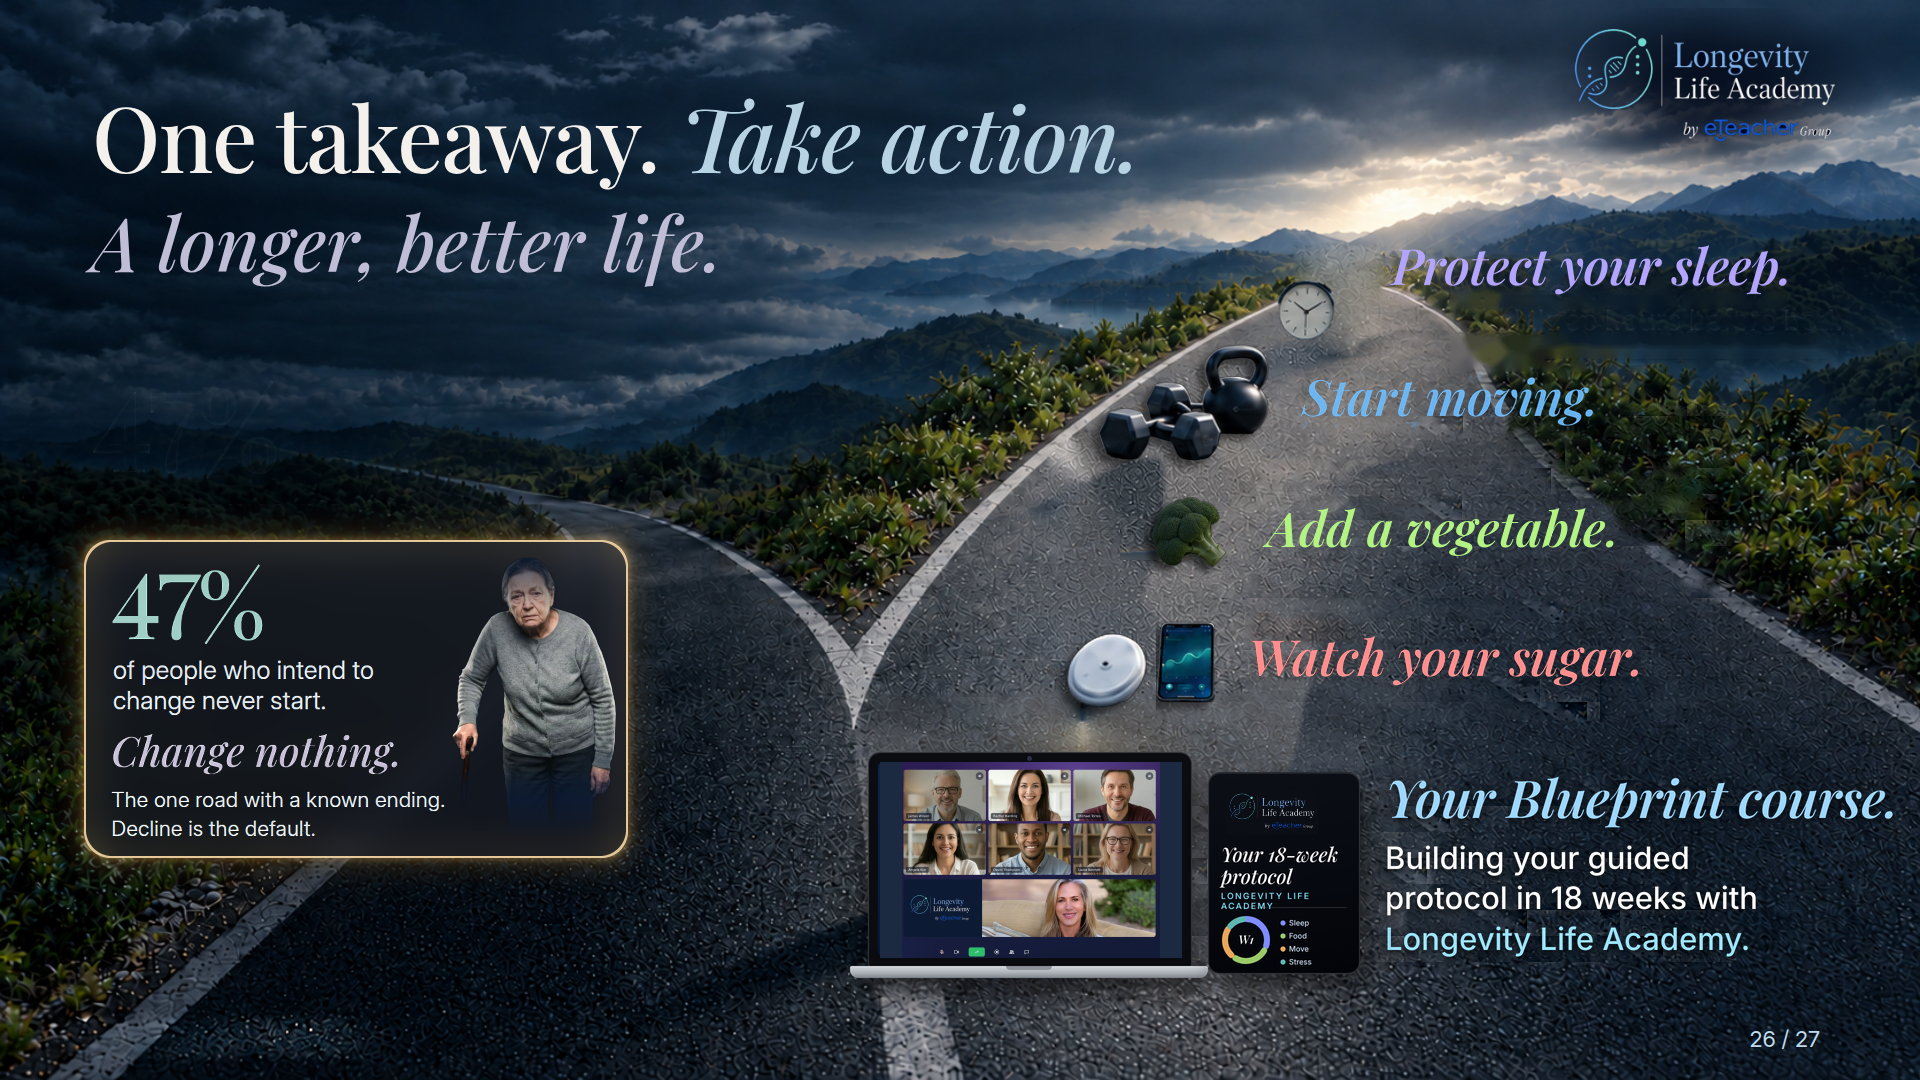
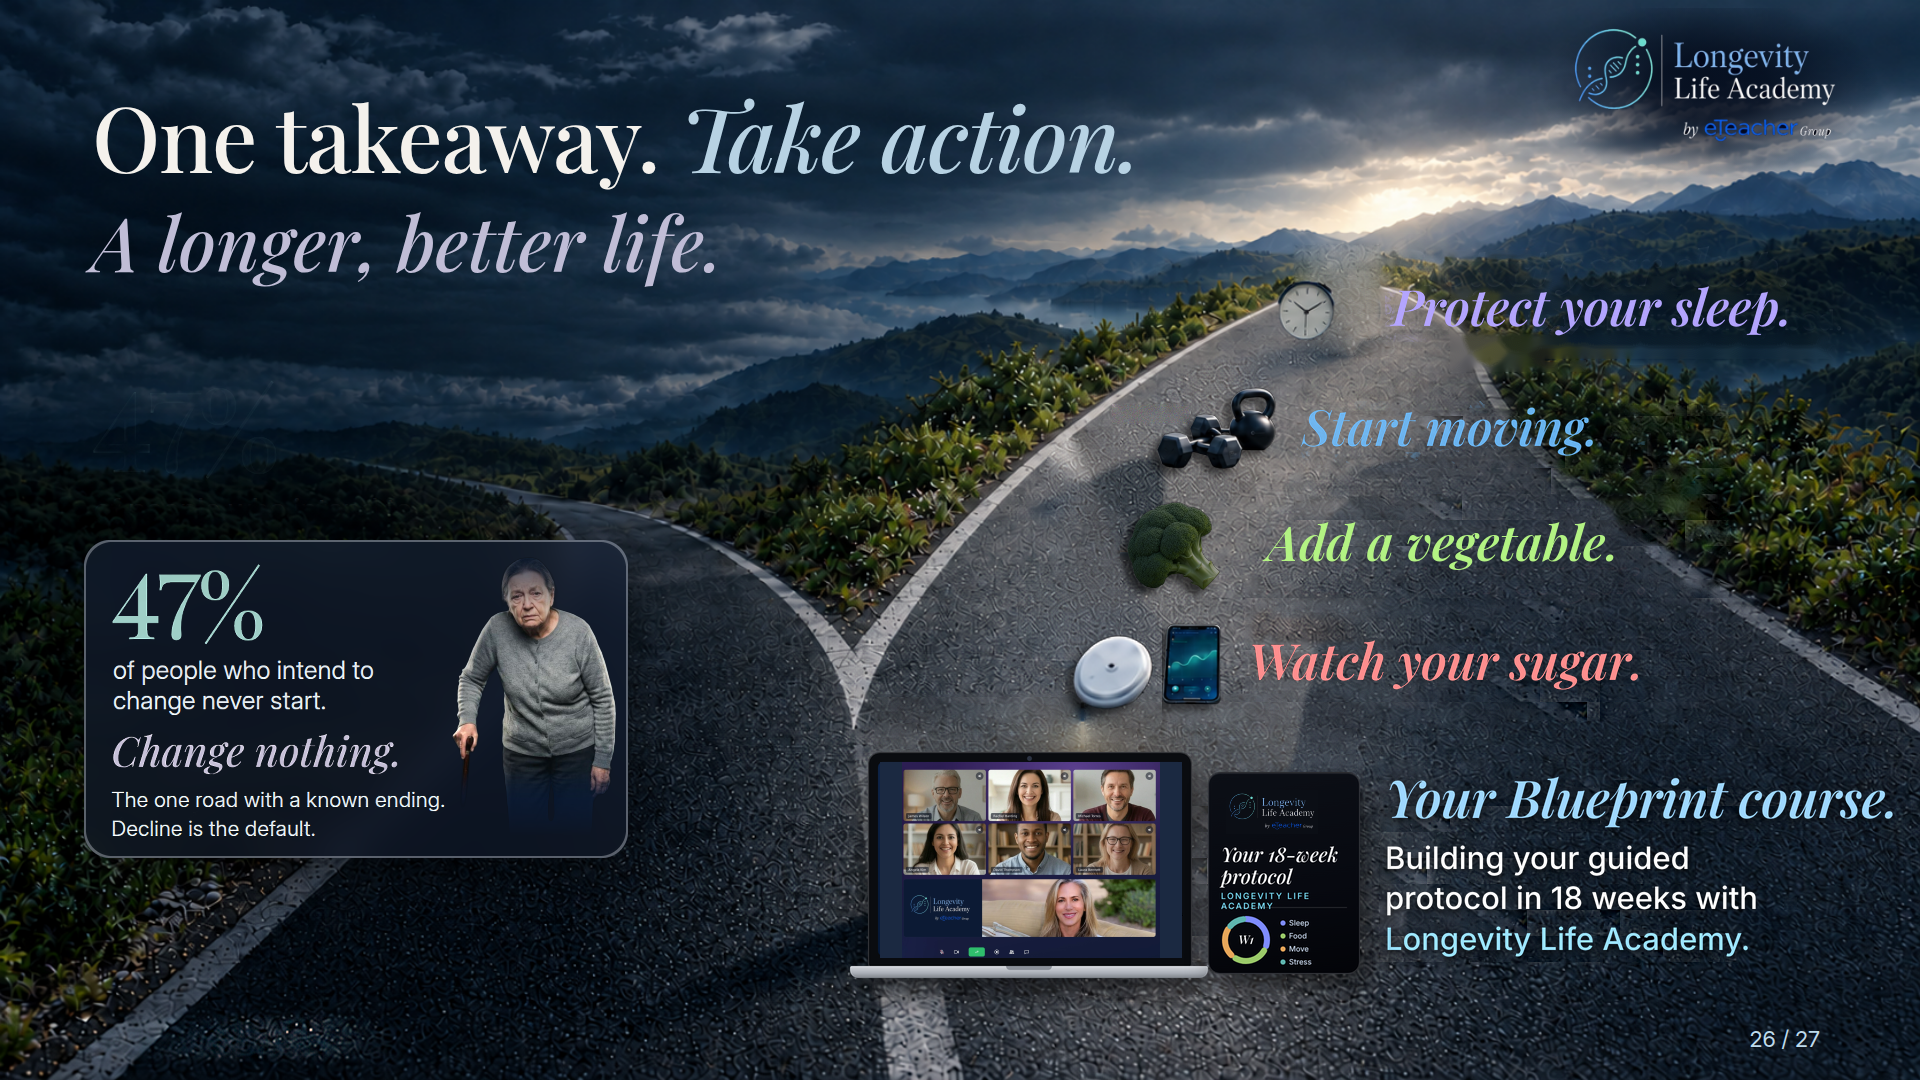
fork-lab: neutral glass card, headlines centred on objects, sharp original clock, broccoli up, weights down

diff --git a/slide-canvas/fork-lab/index.html b/slide-canvas/fork-lab/index.html
@@ -1,4 +1,4 @@
 <!doctype html><html><head><meta charset="utf-8"><title>Fork lab – slide 26</title>
 <style>body{margin:0;background:#0b1220;color:#dfe7f3;font:15px/1.4 Inter,system-ui,sans-serif}h2{font-weight:500;margin:28px 24px 10px}img{display:block;width:calc(100% - 48px);max-width:1920px;margin:0 24px 24px;border-radius:6px}</style></head>
 <body><h2>Original</h2><img src="original-n25-fork.png?v=1" alt="Original">
-<h2>New</h2><img src="new-n25-fork.png?v=10" alt="New"></body></html>
+<h2>New</h2><img src="new-n25-fork.png?v=11" alt="New"></body></html>

diff --git a/slide-canvas/fork-lab/src/b2.py b/slide-canvas/fork-lab/src/b2.py
@@ -52,8 +52,10 @@ def matte(x0,y0,x1,y1,mask):
     return col,al
 HD=[(1385,244,1800,302,248-249,0),(1300,365,1700,428,378-372,1304-1307),(1250,548,1700,608,638-556,1250-1257)]
 HC=[np.array([255,165,180],np.float32),np.array([255,190,110],np.float32),None]
-for (x0,y0,x1,y1,dy,dx),hc in zip(HD,HC):
+ROWC=[310,428,664]
+for (x0,y0,x1,y1,dy,dx),hc,rc in zip(HD,HC,ROWC):
     col,al=matte(x0,y0,x1,y1,tm);A=al[...,None]
+    ys=np.where((al>0.3).any(1))[0];dy=int(round(rc-(y0+(ys.min()+ys.max())/2)));print('head',rc,dy)
     if hc is not None: col=col*0+hc
     R[y0+dy:y1+dy,x0+dx:x1+dx]=R[y0+dy:y1+dy,x0+dx:x1+dx]*(1-A)+col*A
 def put(R,rgba,x,y,shadow=True,sh_op=0.5):
@@ -67,17 +69,17 @@ def obj(n,sc):
     c,ox,oy=L[n];h,w=c.shape[:2];c=cv2.resize(c,(int(round(w*sc)),int(round(h*sc))),interpolation=cv2.INTER_AREA)
     a=(c[...,3]>20);ys,xs=np.where(a);return c,xs.min(),ys.min(),xs.max(),ys.max()
 GAP=36
-rows=[('clock',1.0,272,1394),('dumb',0.9,402,1304),]
+rows=[('dumb',0.63,428,1304),]
 for n,sc,cy,tl in rows:
-    c,a0,b0,a1,b1=obj(n,sc);x=int(tl-GAP-a1);y=int(cy-(b0+b1)/2);put(R,c,x,y);print(n,x+a0,y+b0,x+a1,y+b1)
+    c,a0,b0,a1,b1=obj(n,sc);x=int(tl-88-(a0+a1)/2);y=int(cy-(b0+b1)/2);put(R,c,x,y);print(n,x+a0,y+b0,x+a1,y+b1)
 # CGM bigger, phone smaller
 c,ox,oy=L['cgm'];sen=c[:,:98].copy();ph=c[:,98:].copy()
 def bb(a):
     ys,xs=np.where(a[...,3]>20);return xs.min(),ys.min(),xs.max(),ys.max()
 def sc_(a,s):return cv2.resize(a,(int(a.shape[1]*s),int(a.shape[0]*s)),interpolation=cv2.INTER_CUBIC if s>1 else cv2.INTER_AREA)
 ph=sc_(ph,0.68);sen=sc_(sen,1.35)
-cy=662;tl=1250
-a0,b0,a1,b1=bb(ph);px=int(tl-GAP-a1);py=int(cy-(b0+b1)/2);put(R,ph,px,py)
+cy=664;tl=1250
+a0,b0,a1,b1=bb(ph);s0_,t0_,s1_,t1_=bb(sen);gw=(s1_-s0_)+10+(a1-a0);px=int(tl-30-a1);py=int(cy-(b0+b1)/2);put(R,ph,px,py)
 s0,t0,s1,t1=bb(sen);sx=int(px+a0-10-s1);sy=int(cy+8-(t0+t1)/2);put(R,sen,sx,sy)
 print('sensor',sx+s0,sy+t0,sx+s1,sy+t1,'phone',px+a0,py+b0,px+a1,py+b1)
 # ---- veg headline
@@ -88,7 +90,7 @@ except Exception as e:print('var',e)
 bb=f.getbbox('Watch your sugar.');print('wys bbox',bb)
 # green color from Start moving headline
 s=O[370:412,1305:1600];g=s[((s[...,1]-s[...,2])>60)];gc=np.median(g[g[:,1]>np.percentile(g[:,1],80)],0);print('green',gc)
-VT=508; VX=1262
+VT=546-24; VX=1262
 txt=Image.new('L',(600,140),0);d=ImageDraw.Draw(txt)
 # position so glyph top aligns like sugar headline: sugar glyph top 555 for left 1262
 d.text((10-bb[0]+ (1262-1257) ,20-bb[1]),'Add a vegetable.',font=f,fill=255)
@@ -98,14 +100,14 @@ R[y0:y0+140,x0:x0+600]=R[y0:y0+140,x0:x0+600]*(1-A)+gc*A
 vb=np.where(al>0.3);print('veg',x0+vb[1].min(),y0+vb[0].min(),x0+vb[1].max(),y0+vb[0].max())
 # ---- broccoli
 bc=np.array(Image.open('c_broc.png').convert('RGBA')).astype(np.float32)
-bc=bc[225:731,249:785];bc[...,3]=np.clip((bc[...,3]-60)/170,0,1)*255;th=70;sc=th/bc.shape[0]
+bc=bc[225:731,249:785];bc[...,3]=np.clip((bc[...,3]-60)/170,0,1)*255;th=88;sc=th/bc.shape[0]
 bc=cv2.resize(bc,(int(bc.shape[1]*sc),th),interpolation=cv2.INTER_AREA)
 bc[...,:3]=bc[...,:3]*0.62;g=bc[...,:3].mean(2,keepdims=True);bc[...,:3]=g+(bc[...,:3]-g)*0.8
 bc[...,2]*=1.04  # (RGB order here: slight cool)  
 bc[...,0]*=0.97
 bc=np.pad(bc,((20,20),(20,20),(0,0)))
 vcy=(VT+VT+48)/2
-bx=int(VX-GAP-bc.shape[1]+20);by=int(532-bc.shape[0]/2)
+bx=int(VX-88-bc.shape[1]/2);by=int(546-bc.shape[0]/2)
 put(R,bc,bx,by,sh_op=0.6);print('broc',bx,by,bx+bc.shape[1],by+th)
 np.save('R_right.npy',R)
 np.save('plate.npy',plate);np.save('tm.npy',tm)

diff --git a/slide-canvas/fork-lab/src/b4.py b/slide-canvas/fork-lab/src/b4.py
@@ -4,7 +4,7 @@ H,W=R.shape[:2]
 def feather(x0,y0,x1,y1,f):
     m=np.zeros((H,W),np.float32);m[y0+f:y1-f,x0+f:x1-f]=1;return cv2.GaussianBlur(m,(0,0),f/2)[...,None]
 # 4 clock: original pixels
-a=feather(1228,228,1385,352,8);R=R*(1-a)+O*a
+a=feather(1240,250,1372,362,10);R=R*(1-a)+O*a
 # 6 footer label left
 a=feather(30,1010,420,1065,6);R=R*(1-a)+plate*a
 # 2 laptop: real Zoom mockup (lla-masterclass-assets/zoom-meeting-ui-chat.jpg)
@@ -27,5 +27,10 @@ def putlogo(R,cx,cy,w):
 bgc=O[786:792,1240:1300].reshape(-1,3).mean(0)
 R[790:834,1226:1318]=bgc
 putlogo(R,1272,812,88)
-out=np.clip(np.round(R),0,255).astype(np.uint8);cv2.imwrite('new.png',out)
+out=np.clip(np.round(R),0,255).astype(np.uint8)
+m=np.zeros(out.shape[:2],np.uint8);m[404:424,1112:1190]=255
+import numpy as _n
+fix=cv2.inpaint(out,m,5,cv2.INPAINT_TELEA);g=_n.random.default_rng(1).normal(0,5,out.shape).astype(_n.float32)
+fx=_n.clip(fix.astype(_n.float32)+g,0,255).astype(_n.uint8);out[404:424,1112:1190]=fx[404:424,1112:1190]
+cv2.imwrite('new.png',out)
 cv2.imwrite('n12.png',cv2.resize(out[730:1040,850:1380],None,fx=1.6,fy=1.6))

diff --git a/slide-canvas/fork-lab/src/b3.py b/slide-canvas/fork-lab/src/b3.py
@@ -54,12 +54,12 @@ def glass(N,box,r,tint,tint_a,edge_a,blur=16):
     out=sub*(1-m)+fill*m
     e=ring(x0,y0,x1,y1,r)[...,None]*edge_a;out=out*(1-e)+(t*0.55+np.array([255,255,255],np.float32)*0.45)*e
     N[y0:y1,x0:x1]=out;return N
-TINT=(226,170,80)
+TINT=(210,220,235)
 R*=(1-0.5*sh[...,None])
 gm=np.zeros((H,W),np.float32);gm[CY0:CY1,CX0:CX1]=ring(CX0,CY0,CX1,CY1,RAD,3)
-gl=(cv2.GaussianBlur(gm,(0,0),14)*1.6+cv2.GaussianBlur(gm,(0,0),4)*0.8)*ramp;R+=gl[...,None]*np.array(TINT[::-1],np.float32)[None,None]*0.9
+
 R[CY0:CY1,CX0:CX1]=R[CY0:CY1,CX0:CX1]*(1-mk[...,None]*0.55)+np.array([46,22,10],np.float32)*mk[...,None]*0.55
-R=glass(R,(CX0,CY0,CX1,CY1),RAD,TINT,0.10,0.95)
+R=glass(R,(CX0,CY0,CX1,CY1),RAD,TINT,0.06,0.35)
 # ---- text: stat block scaled 1.07, change nothing 1.0
 def paste(R,lay,x,y,sc=1.0):
     if sc!=1.0:lay=cv2.resize(lay,(int(round(lay.shape[1]*sc)),int(round(lay.shape[0]*sc))),interpolation=cv2.INTER_CUBIC)
